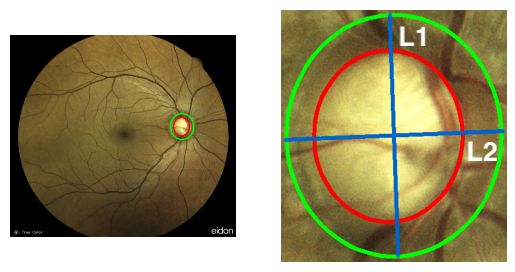
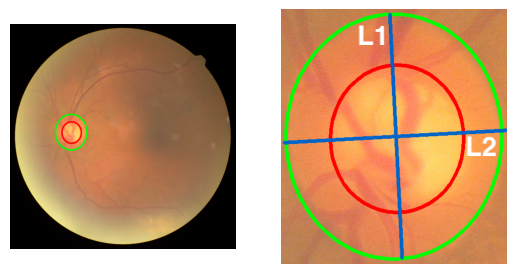
finish exp01

diff --git a/exp01/src/main01.py b/exp01/src/main01.py
@@ -46,10 +46,12 @@ def find_perpendicular_line(l1_start, l1_end, length=None):
     l2_end = midpoint + direction_l2
     return l2_start, l2_end
 
-file_o = open('results_test.csv','w')
-file_o.write('file_name,l1,l2\n')
+# file_o = open('results_test.csv','w')
+# file_o.write('file_name,l1,l2\n')
 model = YOLO('../../model/train/weights/best.pt') 
-for input_image_path in tqdm.tqdm(glob.glob('../../../data/SI/test_si/*.jpg')):
+input_paths = glob.glob('../../../data/SI/test_si/*.jpg')
+input_paths.sort()
+for input_image_path in tqdm.tqdm(input_paths):
     results = model(input_image_path,conf=0.001,iou=0.8)
     cup_arr = []
     dis_arr = []
@@ -100,8 +102,8 @@ for input_image_path in tqdm.tqdm(glob.glob('../../../data/SI/test_si/*.jpg')):
         dis_arr = polygon_to_ellipse(dis_arr)
     cv2.polylines(image_rgb_predict , cup_arr, isClosed=True, color=(255, 0, 0), thickness=20)
     cv2.polylines(image_rgb_predict , dis_arr, isClosed=True, color=(0, 255, 0), thickness=20)
-    # axs[0].imshow(image_rgb_predict)
-    # axs[0].axis('off')
+    axs[0].imshow(image_rgb_predict)
+    axs[0].axis('off')
     image_rgb_predict = image_rgb.copy()
     crop_arr = []
     x_crop_arr = []
@@ -135,14 +137,14 @@ for input_image_path in tqdm.tqdm(glob.glob('../../../data/SI/test_si/*.jpg')):
     YcropMin, YcropMax = np.min(y_crop_arr), np.max(y_crop_arr)
     image_rgb_predict = draw_dashed_line(image_rgb_predict, l2start, l2end, (0, 100, 200), 5, dash_length=1)
     cropped_image = image_rgb_predict[YcropMin-10:YcropMax+10, XcropMin-10:XcropMax+10, :]
-    # axs[1].imshow(cropped_image)
-    # axs[1].axis('off')
-    # plt.savefig('main01.png',bbox_inches='tight')
+    axs[1].imshow(cropped_image)
+    axs[1].axis('off')
+    plt.savefig('main01.png',bbox_inches='tight')
     # print(input_image_path)
     input_image_path = input_image_path.replace('../../../data/SI/','figs/')
     l1 = calculate_distance(start_point, end_point)
     l2 = calculate_distance(l2start, l2end)
-    file_o.write('%s,%f,%f\n'%(input_image_path,l1,l2))
-    # plt.savefig(input_image_path,bbox_inches='tight')
-    # break
+    # file_o.write('%s,%f,%f\n'%(input_image_path,l1,l2))
+    plt.savefig(input_image_path,bbox_inches='tight')
+    break
 print("OK")

diff --git a/exp01/src/analyze_main01.py b/exp01/src/analyze_main01.py
@@ -1,0 +1,33 @@
+import pandas as pd 
+import matplotlib.pyplot as plt 
+
+df_test = pd.read_csv('results_test.csv')
+print(len(df_test))
+df_test.dropna(inplace=True)
+print(len(df_test))
+df_val = pd.read_csv('results_val.csv')
+print(len(df_val))
+df_val.dropna(inplace=True)
+print(len(df_val))
+
+# x1_arr = []
+# x2_arr = []
+# a = 0
+# for i in range(len(df_test)):
+#     x1_arr.append(a)
+#     x2_arr.append(a+1)
+#     a = a + 2
+
+plt.figure(figsize=(10,5))
+plt.subplot(211)
+plt.ylabel('Testing\nFrequency')
+# plt.bar(range(len(df_test)),df_test['l1']/df_test['l2'])
+plt.hist(df_test['l1']/df_test['l2'],bins=300)
+
+plt.subplot(212)
+plt.xlabel('L1/L2')
+plt.ylabel('Validation\nFrequency')
+# plt.bar(range(len(df_val)),df_val['l1']/df_val['l2'])
+plt.hist(df_val['l1']/df_val['l2'],bins=300)
+
+plt.savefig('analyze_main01.png',bbox_inches='tight')

diff --git a/README.md b/README.md
@@ -1,125 +1,15 @@
-# YOLOv8_CDR
+# YOLOv8_CDR with Quardrant Analysis
 
-This work utilized YOLOv8 to segment the cup and disc areas in color fundus photography (CFP) captured by NIDEK and EIDON cameras, followed by the calculation of the cup-to-disc ratio for glaucoma detection.
+## [Experiment 01](exp01) 
 
-This work utilizes the same dataset as the project available at [https://github.com/biodatlab/si-eye-screening](https://github.com/biodatlab/si-eye-screening)
+| Problem | Solution |
+|-------|--------|
+| ![](exp01/figs/IMG_1777.jpg)  | ![](exp01/src/main01.png) | 
 
-## Dataset
+> Results
 
-|       | Total | Glaucoma (NIDEK/EIDON) | Normal (NIDEK/EIDON) |
-| :---: | -----: | -----: | -----: |
-| Train | 2,732 | 128 (28/100) | 2,604(1,194/1,410) |
-| Test  |   342 |               9 (1/8) | 333 (172/161) |
-| Val   |   342 |              15 (5/10)| 327 (164/163) |
+![](exp01/src/analyze_main01.png)
 
-## Image segmentation
 
-```
-python src/train_yolov8.py
-```
 
-Training for 100 epochs 
-
-|       | F1-score | Precision | Recall | Precision-Recall |
-| :---: | -------- | --------- | ------ | ---------------- |
-| Box   | ![](model/BoxF1_curve.png) | ![](model/BoxP_curve.png) | ![](model/BoxR_curve.png) | ![](model/BoxPR_curve.png) |
-| Box   | ![](model/MaskF1_curve.png) | ![](model/MaskP_curve.png) | ![](model/MaskR_curve.png) | ![](model/MaskPR_curve.png) |
-
-You can download the pre-trained model  [here](/model)
-
-### Evaluation
-
-| Class | Images | Instances | Box(P) | Box(R) | Box mAP50 | Box mAP50-95 | Mask(P) | Mask(R) | Mask mAP50 | Mask mAP50-95 |
-|-------|--------|-----------|--------|--------|-----------|--------------|---------|---------|------------|---------------|
-| all   | 342    | 684       | 0.978  | 0.968  | 0.983     | 0.708        | 0.974   | 0.963   | 0.980      | 0.580         |
-| cup   | 342    | 342       | 0.957  | 0.936  | 0.972     | 0.555        | 0.963   | 0.942   | 0.973      | 0.552         |
-| disc  | 342    | 342       | 1.000  | 1.000  | 0.995     | 0.862        | 0.985   | 0.985   | 0.986      | 0.609         |
-
-## Glaucoma detection
-
-This work detects glaucoma based on the cup-to-disc ratio (CDR). If the CDR is greater than 0.7, it is considered suspect for glaucoma; otherwise, it is classified as normal.
-
-:exclamation: What are the differences between this work and the default inferencing?
-
-1. Adjusting 'conf' and 'iou' in YOLOv8 Inference:
-
-Default Inferencing:
-```
-results = model({image_path}, conf=0.25, iou=0.7)
-```
-
-This work's Inferencing:
-```
-results = model({image_path}, conf=0.001, iou=0.8)
-```
-
-&nbsp;&nbsp;&nbsp;&nbsp; For more details on adjusting parameters with YOLOv8, refer to the [documentation.](https://docs.ultralytics.com/usage/cfg/#predict-settings)
-
-2. Handling Multiple Detections
-
-&nbsp;&nbsp;&nbsp;&nbsp; Due to the parameter adjustments made in the previous step, it is possible to detect more than one cup and disc per image, which is unusual.
-
-This work implements a simple logic to identify the correct cup and disc: It first identifies the largest disc that contains a cup. Then, it finds the largest cup within that disc.
-```
-results = model(input_image_path,conf=0.001,iou=0.8)
-cup_arr = []
-dis_arr = []
-for result in results:
-    if result.masks is None:
-        continue
-    for mask, box in zip(result.masks.xy, result.boxes):
-        points = np.int32([mask])
-        if box.cls[0] == 0:
-            if 0 not in points[0]:
-                cup_arr.append(points[0])
-        if box.cls[0] == 1:
-            if 0 not in points[0]:
-                dis_arr.append(points[0])
-cup_polygons = [Polygon([tuple(point) for point in coords]) for coords in cup_arr]
-dis_polygons = [Polygon([tuple(point) for point in coords]) for coords in dis_arr]
-result = []
-for dis_index, dis_poly in enumerate(dis_polygons):
-    contained_cup_polygons = [red_poly for red_poly in cup_polygons if red_poly.within(dis_poly)]
-    if contained_cup_polygons:
-        highest_cup_poly = max(contained_cup_polygons, key=lambda p: max(point[1] for point in p.exterior.coords)-min(point[1] for point in p.exterior.coords)) 
-        result.append({
-            "dis_polygon_index": dis_index,
-            "dis_polygon_area": dis_poly.area,
-            "largest_cup_polygon": highest_cup_poly,
-            "largest_cup_polygon_index": cup_polygons.index(highest_cup_poly),
-            "largest_cup_polygon_area": highest_cup_poly.area
-        })
-if result:
-    largest_dis_poly_result = max(result, key=lambda x: x["dis_polygon_area"])
-else:
-    print("No red polygons are contained within any green polygons.")
-```
-
-```
-python src/inference.py {input_image_path} {output_image_path} {input_label_path}
-```
-
-Example output
-
-![](imgs/out.png)
-
-### Experimental results
-
-Confusion matrix
-
-![](imgs/train01_test.png) 
-
-#### In testing dataset
-
-> 8 samples predicted as normal but are actually glaucoma
-
-| #01  | #02 | #03 | #04 | #05 | #06 | #07 | #08 | 
-| ---- | --- | --- | --- | --- | --- | --- | --- |
-| ![](imgs/testing/099R.jpg) | ![](imgs/testing/28f1ca57fc8d6a7c957ed43e965e1ef1.jpg) |  ![](imgs/testing/4023.jpg) |  ![](imgs/testing/3287.jpg) |  ![](imgs/testing/3675.jpg ) |  ![](imgs/testing/4339.jpg) |  ![](imgs/testing/4382.jpg) |  ![](imgs/testing/4423.jpg) |
-
-> 2 samples predicted as glaucoma but are actually normal
-
-| #01  | #02 |
-| -------- | ---------- | 
-| ![](imgs/testing/3036.jpg) | ![](imgs/testing/4094.jpg) |
 
